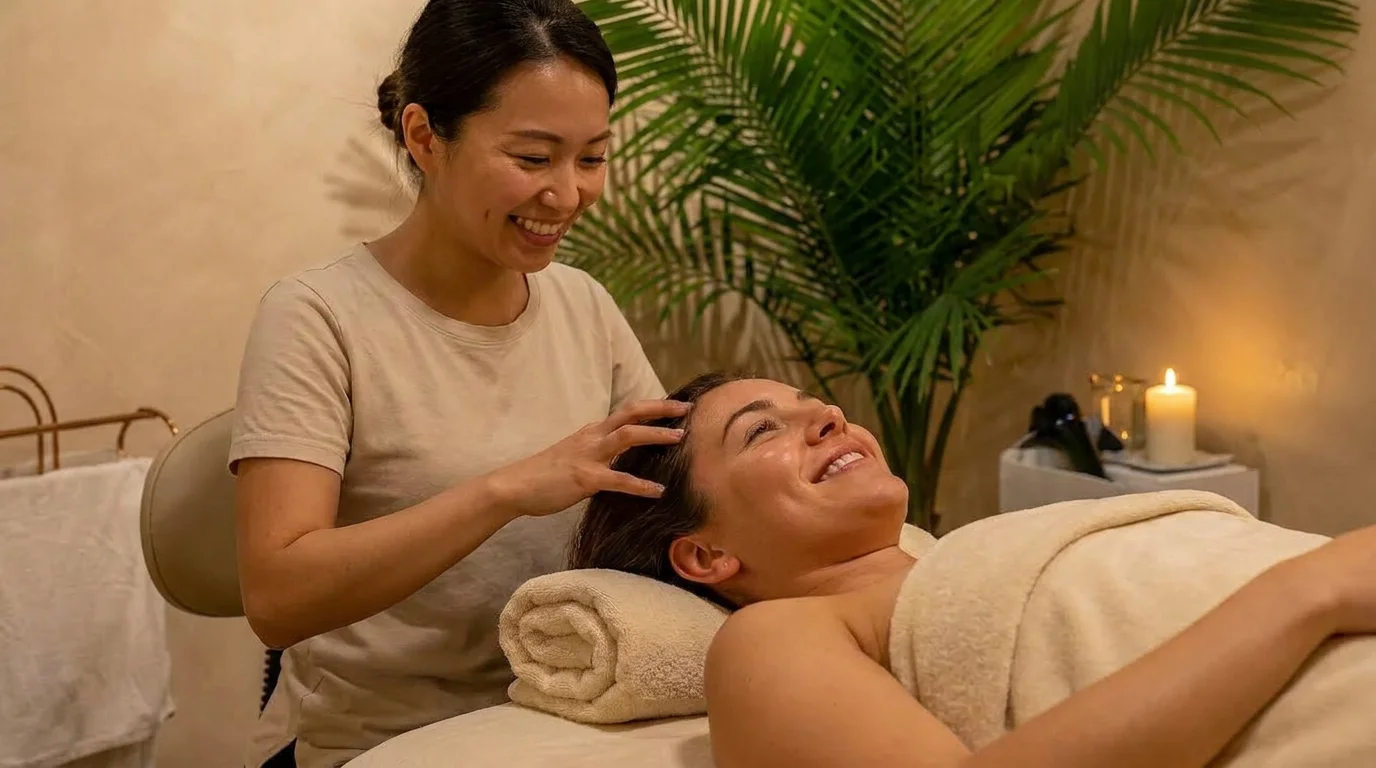
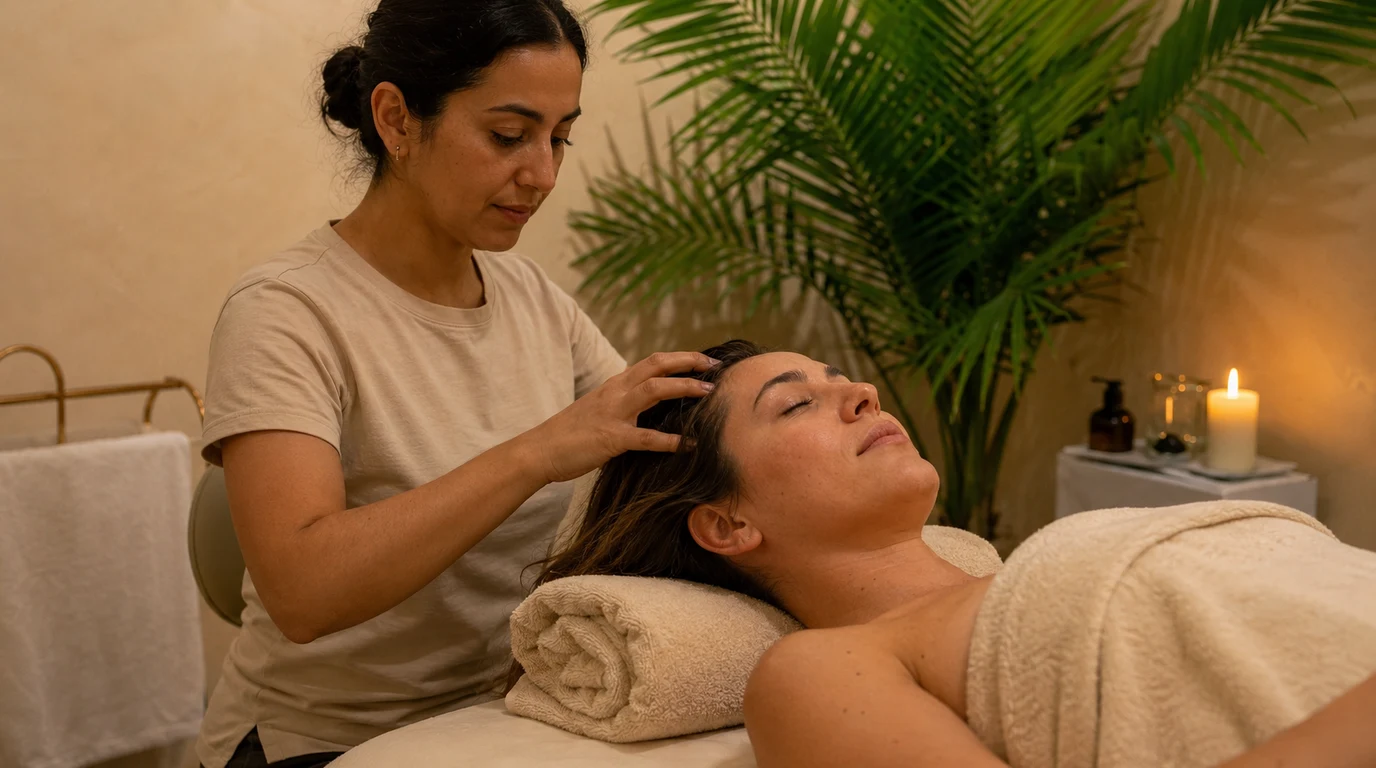
content: replace Solo 90 min card photo with a more realistic scalp-massage image
Swap assets/90 min solo.webp for a new authentic head-spa photo (resized
to 1376x768 to match the card), and bump the cache-buster to v=2 so
browsers pick up the new image.

diff --git a/head-spa.html b/head-spa.html
@@ -6879,7 +6879,7 @@ input, textarea, select {
 /* ── Edit services here ─────────────────────────────────── */
 const SERVICES = [
   { key: "solo-60",  category: "SOLO · 60 MIN",  name: "Solo 60 min Focus Scalpcial",      price: "$98",  originalPrice: "$140", discount: "30% de rabais", discountEn: "30% off", img: "/assets/60%20min%20SOLO%20ROOM.webp?v=1" },
-  { key: "solo-90",  category: "SOLO · 90 MIN",  name: "Solo 90 min Signature Scalpcial",  price: "$144", originalPrice: "$180", discount: "20% de rabais", discountEn: "20% off", img: "/assets/90%20min%20solo.webp?v=1" },
+  { key: "solo-90",  category: "SOLO · 90 MIN",  name: "Solo 90 min Signature Scalpcial",  price: "$144", originalPrice: "$180", discount: "20% de rabais", discountEn: "20% off", img: "/assets/90%20min%20solo.webp?v=2" },
   { key: "duo-60",   category: "DUO · 60 MIN",   name: "Duo 60 min Focus Scalpcial",       price: "$196", originalPrice: "$280", discount: "30% de rabais", discountEn: "30% off", img: "/assets/DUO%20ROOM.webp?v=1" },
   { key: "duo-90",   category: "DUO · 90 MIN",   name: "Duo 90 min Signature Scalpcial",   price: "$288", originalPrice: "$360", discount: "20% de rabais", discountEn: "20% off", img: "/assets/90min%20duo%20canada.webp?v=1" },
   { key: "trio-60",  category: "TRIO · 60 MIN",  name: "Trio 60 min Focus Scalpcial",      price: "$294", originalPrice: "$420", discount: "30% de rabais", discountEn: "30% off", img: "/assets/TRIO%2060%20ROOM.webp?v=1" },
@@ -8450,7 +8450,7 @@ html body nav {}
       }
     },
     'solo-90': {
-      images: ['assets/90%20min%20solo.webp?v=1','assets/IMG_4654.webp?v=1'],
+      images: ['assets/90%20min%20solo.webp?v=2','assets/IMG_4654.webp?v=1'],
       fr: {
         eyebrow: 'HEAD SPA · SOLO · 90 MIN',
         title: 'Signature Scalpcial Solo 90 min',
